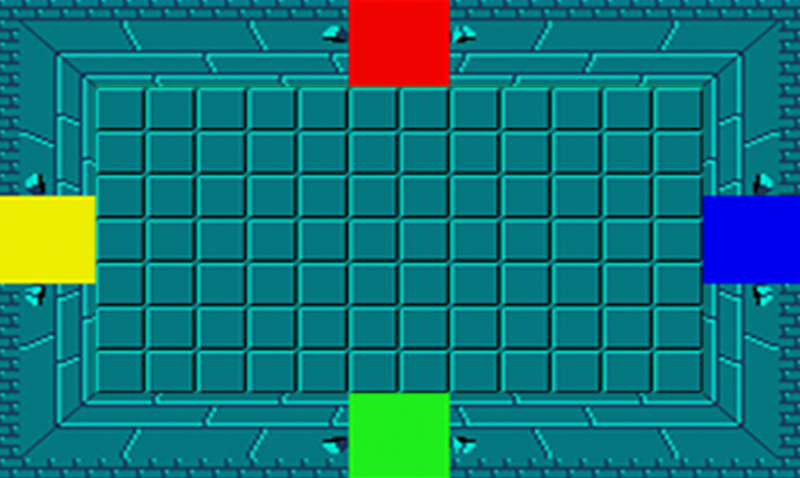
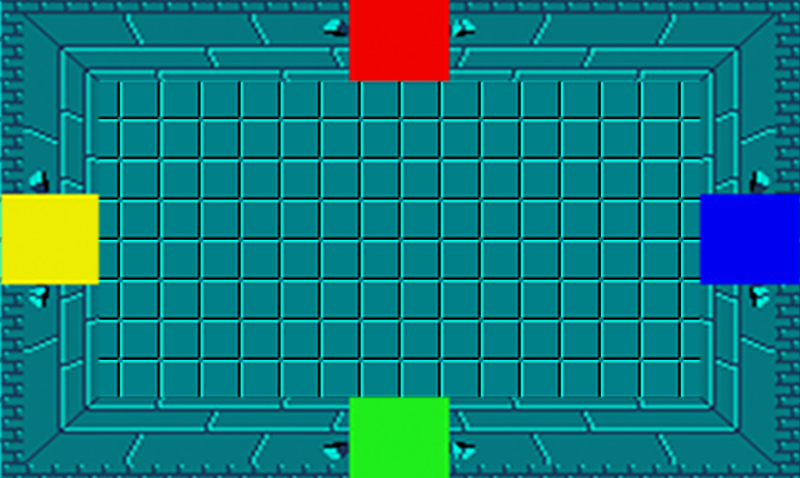
background goes crazy

diff --git a/Sprint2Pork/Blocks/Block.cs b/Sprint2Pork/Blocks/Block.cs
@@ -18,7 +18,7 @@ namespace Sprint2Pork.Blocks
             SourceRect = sourceRect;
         }
 
-        public void Draw(SpriteBatch spriteBatch, float scale = 2.7f)
+        public void Draw(SpriteBatch spriteBatch, float scale = 2.4f)
         {
             // Use the scaling factor in the Draw call
             spriteBatch.Draw(Texture, Position, SourceRect, Color.White, 0f, Vector2.Zero, scale, SpriteEffects.None, 0f);

diff --git a/Sprint2Pork/rooms/CSVLevelLoader.cs b/Sprint2Pork/rooms/CSVLevelLoader.cs
@@ -18,7 +18,7 @@ namespace Sprint2Pork.rooms
             enemies = new List<IEnemy>();
             fireballs = new List<EnemyManager>();
 
-            int tileSize = 16;
+            int tileSize = 40;
             int row = 0;
 
             string filePath = Path.Combine(AppDomain.CurrentDomain.BaseDirectory, "..", "..", "..", "rooms", "levels", fileName);
